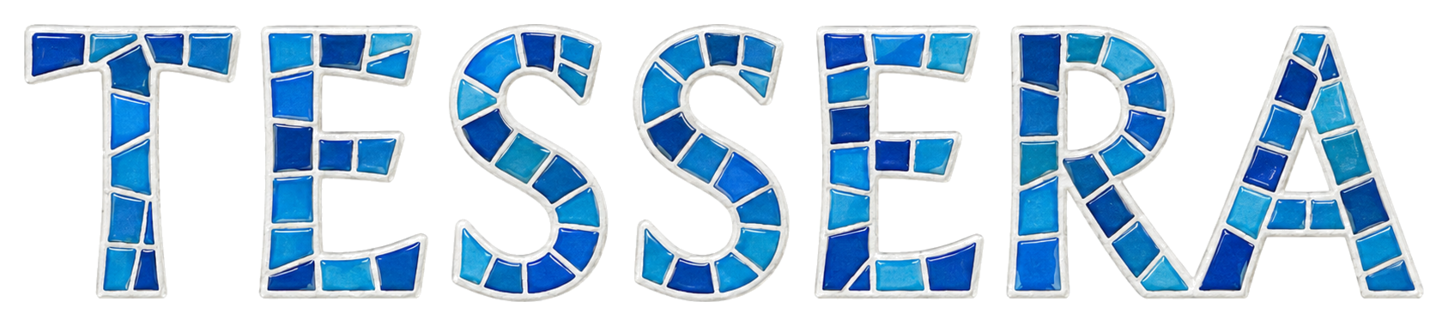
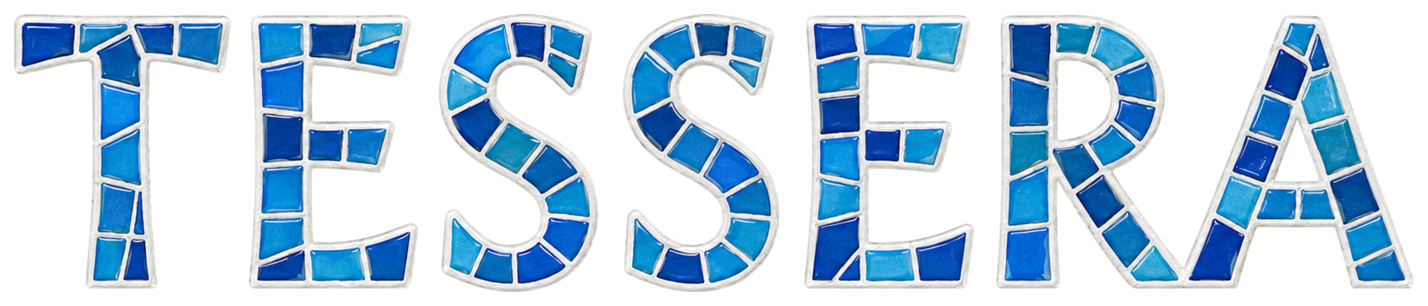
Thinner white border on the hero wordmark

Changed region(s): [[0.0, 0.0294, 1.0, 0.9706]]

diff --git a/index.html b/index.html
@@ -6,7 +6,7 @@ body_class: home
 <section class="hero">
   <img class="hero-img" src="{{ '/assets/img/mosaic.jpg' | relative_url }}" alt="A mosaic of 1,024 dark matter zoom simulations, each with a different cosmology and environment" fetchpriority="high">
   <div class="wrap">
-    <h1 class="hero-mark"><img src="{{ '/assets/img/tessera-wordmark-outlined.png' | relative_url }}" alt="Tessera" width="1448" height="326" fetchpriority="high"></h1>
+    <h1 class="hero-mark"><img src="{{ '/assets/img/tessera-wordmark-outlined.png' | relative_url }}" alt="Tessera" width="1428" height="306" fetchpriority="high"></h1>
     <p>Tessera comprises more than a thousand dark-matter-only zoom resimulations, each with a different cosmology and large-scale environment. Emulators trained on the suite predict the halo and galaxy populations of gigaparsec volumes at a resolution that a single periodic box of that size cannot reach.</p>
     <div class="actions">
       <a class="btn btn-primary" href="{{ '/about/' | relative_url }}">About</a>
